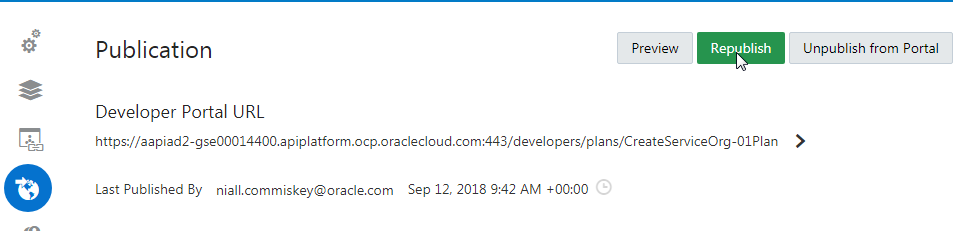
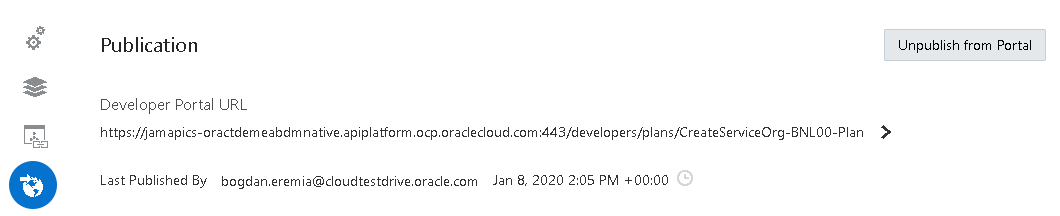
Update apip lab;

diff --git a/apip.md b/apip.md
@@ -2,17 +2,14 @@
 
 ### Login to API Platform
 
-- Now login to API Platform
-  - < apip url !!>/apiplatform/apis
-  - Please note that the username is different than the one used by OIC (same password)
-- Here is my API:
+- Now login to API Platform - Management Portal
+- Here is my API (look for CreateServiceOrg-*NN* unique API):
 
 ![](images/apip/image010.png)
 
 
 
-- Note: a Plan has also been created. APIs are made available to developers through
-  Plans.
+- Note: a Plan has also been created. APIs are made available to developers through Plans.
 
 
 
@@ -24,7 +21,7 @@
 
 
 
-- Under **API Request URL** enter *OrganizationNN*
+- Under **API Endpoint URL** enter *organizationNN*; this is the unique suffix that the API will have when deployed to a Gateway
 
 ![](images/apip/image030.png)
 
@@ -44,23 +41,28 @@
 
 ![](images/apip/image050.png)
 
-- Select **Development Gateway**
+- Select **Development Gateway** and **Deploy**
 
 
 ![](images/apip/image060.png)
 
 
 
-- The API will get *Active* on **Development Gateway** :
+- The API will get *Active* in a while on **Development Gateway** :
 
 ![](images/apip/image070.png)
 
 
 
+- Take note of the *Load Balancer URL* information! It should contain the full URL of the Gateway and the unique suffix (relative path) given to the API:
+
+![](images/apip/image071.png)
+
+
+
 ### Activate API Plan
 
-- Click on **Plans**, then click on particular API and then *three dots* on top left corner
-  and than **activate**
+- Click on **Plans**, then click on particular API and then *three dots* on top left corner and than **Activate**
 
 ![](images/apip/image080.png)
 
@@ -68,37 +70,39 @@
 
 ### Test the API in Postman
 
-- Now let’s test the API – again in Postman - !!!
+- Now let’s test the API – again in Postman
 
 ![](images/apip/image090.png)
 
 
 
-- How did I know that I had to add the */createOrg* suffix? Let’s look at the API definition:
+- How did I know that I had to add the */organization* suffix? Let’s look at the API definition:
 
 ![](images/apip/image100.png)
 
 
 
-Our proxy – API Request is /organization
+Our proxy – API Request is /organization**NN**
 
-Our backend Service is https://OIC-gse00014400.integration.ocp.oraclecloud.com:443/ic/api/integration/v1/flows/rest/CREATESERVICEORG_01/1.0
+Our backend Service is https://JAMOIC-oractdemeabdmnative.integration.ocp.oraclecloud.com:443/ic/api/integration/v1/flows/rest/CREATESERVICEORG_**NN**/1.0
 
 Remember the Endpoint for the OIC integration was:
 
 ![](images/apip/image105.png)
 
+When we configured the REST-Trigger of the *CreateServiceOrg* orchestration, we defined the *Endpoint's relative resource URI* as */organization*
+
 
 
 ### Add a Policy
 
-- Add the Traffic Policy by selecting *API Rate Limiting* from *Traffic Management* Policies:
+- Add the Traffic Policy by selecting *API Rate Limiting* from *Traffic Management* Policies; Click **Apply**
 
 ![](images/apip/image110.png)
 
 
 
-- Setup:
+- Setup in second page of configuration:
   - **API Rate Limit**: *4*
   - **Time Interval**: *Minute*
 - Click **Apply**:
@@ -113,6 +117,7 @@ Remember the Endpoint for the OIC integration was:
 
 
 
+- **Save**
 - Re-deploy to the Gateway
 - Test in Postman
   - The 5th request will elicit the following response:
@@ -129,7 +134,7 @@ Remember the Endpoint for the OIC integration was:
 
 
 
-- The API is listed in the plan, but needs to be published to make it active
+- The API is listed in the plan, but needs to be published to make it active; Click **Publish**
 
 ![](images/apip/image160.png)
 
@@ -141,19 +146,25 @@ Remember the Endpoint for the OIC integration was:
 
 
 
-- Now we can publish the plan to the developer portal:
+- Now we can publish the plan to the developer portal; Click *Publication* left menu icon:
 
 ![](images/apip/image180.png)
 
 
 
-- Choose a plan URL containing the **NN** suffix:
+- Choose a plan URL containing the **NN** suffix, for example *CreateServiceOrg-NN-Plan*; Click **Save**
 
 ![](images/apip/image190.png)
 
 
 
-- Once Published, you can unpublish, republish etc.
+- Click **Publish to Portal**:
+
+![](images/apip/image195.png)
+
+
+
+- Once Published, you can unpublish and then republish etc.
 
 ![](images/apip/image200.png)
 
@@ -165,7 +176,7 @@ Remember the Endpoint for the OIC integration was:
 
 
 
-- Choose an API URL containing the NN suffix:
+- Choose an API URL containing the NN suffix; Click **Save**
 
 ![](images/apip/image220.png)
 
@@ -179,7 +190,7 @@ Remember the Endpoint for the OIC integration was:
 
 ### Check out the API in the Developer Portal
 
-- !! Login URL is https://aapiad2-gse00014400.apiplatform.ocp.oraclecloud.com/developers
+- Login to API Platform - Developer Portal
 - Here is the API
 
 ![](images/apip/image240.png)
@@ -192,14 +203,15 @@ Remember the Endpoint for the OIC integration was:
 
 
 
-- Note the embedded documentation from Apiary.
-- Click on **Select Plan**:
+- Note the embedded documentation from Apiary; Click **Subscribe** (upper left corner)
+- Click on **Continue** to select default plan:
 
 ![](images/apip/image260.png)
 
 
 
-Click on **Subscribe**:
+- Now you should select an application before being able to subscribe:
+
 
 ![](images/apip/image270.png)
 
@@ -207,21 +219,30 @@ Click on **Subscribe**:
 
 APIs are used in the context of an Application, e.g. a mobile app the developer is working on.
 
-- Click Create New Application
-  - Enter your app name etc.
+- Click *Register Application* Link
+  - Enter an **Application Name** using *NN* suffix, for example MobileApplication-*NN*
+  - Choose an **Application Type**
 
 ![](images/apip/image280.png)
 
 
 
-- Note the **Application Key** (copy this for later use)
+- Click **Save**
+- Your application should get pre-selected;
+- Note the *Application Key* (copy this for later use)
+- Now you can click **Subscribe**:
+
+![](images/apip/image285.png)
+
+
+
 - Click **Subscribe**
 
 ![](images/apip/image290.png)
 
 
 
-- !! XXXX
+- Now the Mobile Application is subscribed to the API:
 
 ![](images/apip/image300.png)
 
@@ -235,8 +256,8 @@ APIs are used in the context of an Application, e.g. a mobile app the developer 
 
 
 
-- Select **Key Validation** from **Security Policies** List
-- Configure as follows:
+- Select **Key Validation** from **Security Policies** List (by clicking **Apply**)
+- Configure as follows in the second screen:
   - **Key Delivery Approach**: *Header*
   - **Key Header**: *app-key*
 - Click **Apply**:
@@ -245,6 +266,7 @@ APIs are used in the context of an Application, e.g. a mobile app the developer 
 
 
 
+- Click **Save**
 - Re-deploy the API to the Gateway
 - Test in Postman
 
@@ -252,5 +274,10 @@ APIs are used in the context of an Application, e.g. a mobile app the developer 
 
 
 
-- Now add the key to the request
-- !! XX
+- Now add the key to the request (as *app-key* header) and test again:
+
+![](images/apip/image340.png)
+
+
+
+- Success!

diff --git a/README.md b/README.md
@@ -6,8 +6,6 @@ This set of labs covers the following Oracle Integration Services –
 - **Oracle Integration Cloud** – for Application Integration
 - **API Platform** CS – for API Management
 
- 
-
 The use case is very simple – we need to be able to expose an API that allows us to create new organizations in **Oracle Service Cloud** (aka. Right Now).
 
 We will start by shaping the API in Apiary, then implementing the API in OIC by putting in place a simple logic: checking first if the organization already exists or not in Oracle Service Cloud. We will conclude by exposing the API via API Platform and enforcing some traffic and security policies.

diff --git a/oic.md b/oic.md
@@ -500,7 +500,7 @@ This directs to a very handy page, the Endpoint Description.
 	}
     ```
 
-    * **Modify** the orgName to: Oracle Organization **NN II** where **II** represent the initials of your name
+    * **Modify** the orgName to: Oracle Organization **NN** where **NN** represents the unique number given by your trainers
 
 -	Click **Send**
 ![](images/oic/img0700.png)
